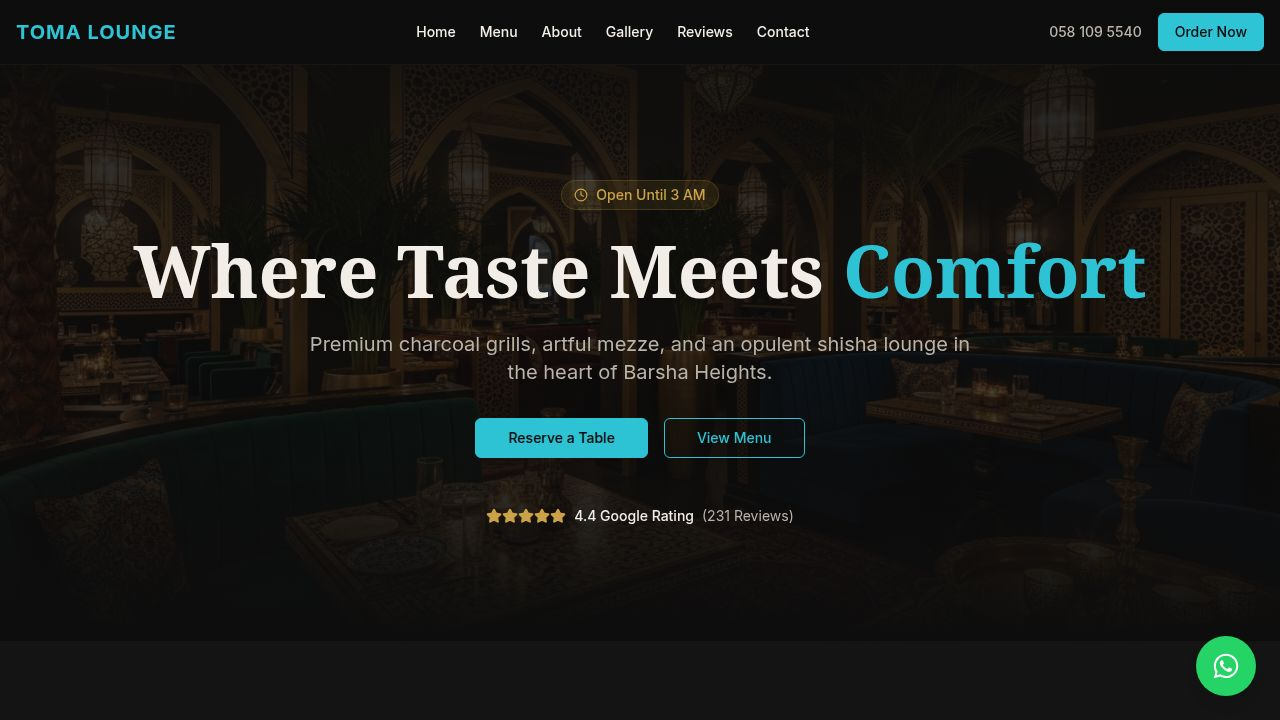
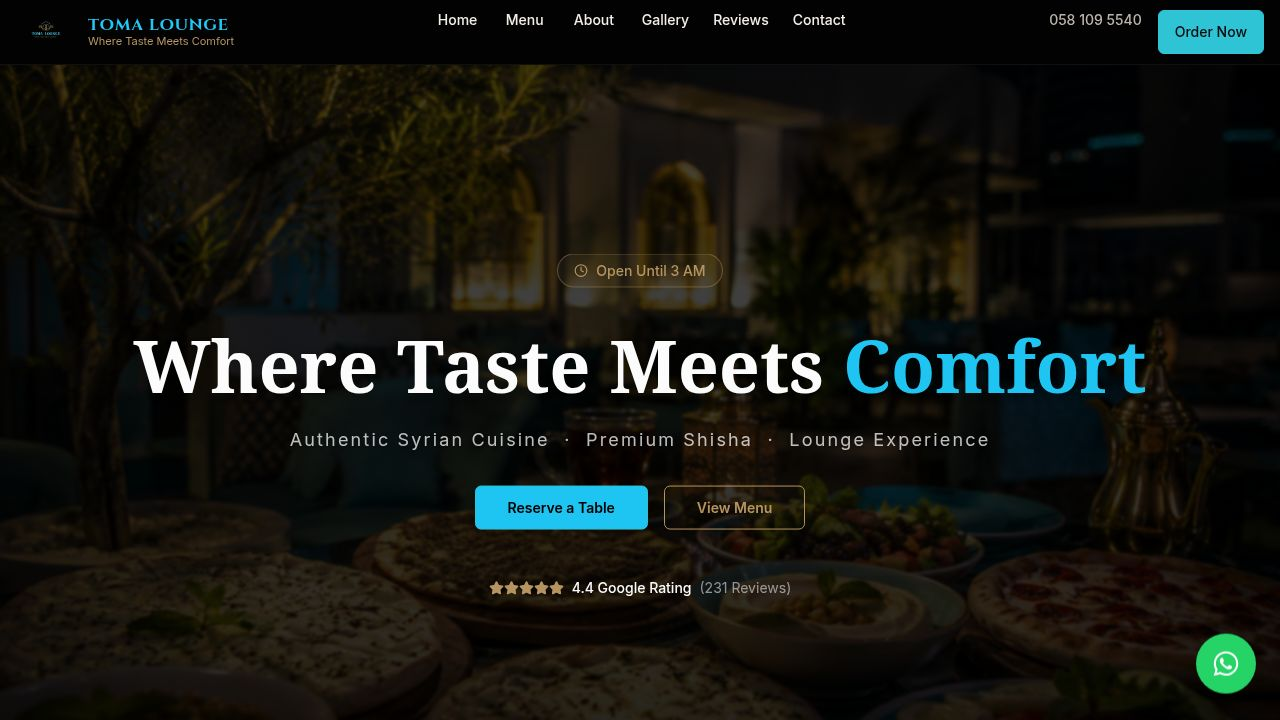
Make Vite configuration more flexible for different deployment environments
Update vite.config.ts to make PORT and BASE_PATH environment variables optional with fallback defaults, and conditionally load Replit-specific plugins.

Replit-Commit-Author: Agent
Replit-Commit-Session-Id: e3f2b6cb-ddf7-4e0a-a1b6-f0106b413816
Replit-Commit-Checkpoint-Type: full_checkpoint
Replit-Commit-Event-Id: 7954570c-5fef-47fc-9281-c6a9725e9d65
Replit-Commit-Screenshot-Url: https://storage.googleapis.com/screenshot-production-us-central1/33b98ebb-dc7e-4a67-95c1-7c174f2af137/e3f2b6cb-ddf7-4e0a-a1b6-f0106b413816/Ta9PFXU
Replit-Helium-Checkpoint-Created: true

diff --git a/artifacts/toma-lounge/vite.config.ts b/artifacts/toma-lounge/vite.config.ts
@@ -2,74 +2,63 @@ import { defineConfig } from "vite";
 import react from "@vitejs/plugin-react";
 import tailwindcss from "@tailwindcss/vite";
 import path from "path";
-import runtimeErrorOverlay from "@replit/vite-plugin-runtime-error-modal";
 
-const rawPort = process.env.PORT;
+const port = process.env.PORT ? Number(process.env.PORT) : 3000;
+const basePath = process.env.BASE_PATH ?? "/";
+const isReplit = !!process.env.REPL_ID;
+const isDev = process.env.NODE_ENV !== "production";
 
-if (!rawPort) {
-  throw new Error(
-    "PORT environment variable is required but was not provided.",
-  );
-}
-
-const port = Number(rawPort);
-
-if (Number.isNaN(port) || port <= 0) {
-  throw new Error(`Invalid PORT value: "${rawPort}"`);
-}
-
-const basePath = process.env.BASE_PATH;
-
-if (!basePath) {
-  throw new Error(
-    "BASE_PATH environment variable is required but was not provided.",
-  );
-}
-
-export default defineConfig({
-  base: basePath,
-  plugins: [
-    react(),
-    tailwindcss(),
-    runtimeErrorOverlay(),
-    ...(process.env.NODE_ENV !== "production" &&
-    process.env.REPL_ID !== undefined
+export default defineConfig(async () => {
+  const replitPlugins =
+    isReplit && isDev
       ? [
+          await import("@replit/vite-plugin-runtime-error-modal").then((m) =>
+            m.default()
+          ),
           await import("@replit/vite-plugin-cartographer").then((m) =>
             m.cartographer({
               root: path.resolve(import.meta.dirname, ".."),
-            }),
+            })
           ),
           await import("@replit/vite-plugin-dev-banner").then((m) =>
-            m.devBanner(),
+            m.devBanner()
           ),
         ]
-      : []),
-  ],
-  resolve: {
-    alias: {
-      "@": path.resolve(import.meta.dirname, "src"),
-      "@assets": path.resolve(import.meta.dirname, "..", "..", "attached_assets"),
+      : [];
+
+  return {
+    base: basePath,
+    plugins: [react(), tailwindcss(), ...replitPlugins],
+    resolve: {
+      alias: {
+        "@": path.resolve(import.meta.dirname, "src"),
+        "@assets": path.resolve(
+          import.meta.dirname,
+          "..",
+          "..",
+          "attached_assets"
+        ),
+      },
+      dedupe: ["react", "react-dom"],
     },
-    dedupe: ["react", "react-dom"],
-  },
-  root: path.resolve(import.meta.dirname),
-  build: {
-    outDir: path.resolve(import.meta.dirname, "dist/public"),
-    emptyOutDir: true,
-  },
-  server: {
-    port,
-    strictPort: true,
-    host: "0.0.0.0",
-    allowedHosts: true,
-    fs: {
-      strict: true,
+    root: path.resolve(import.meta.dirname),
+    build: {
+      outDir: path.resolve(import.meta.dirname, "dist/public"),
+      emptyOutDir: true,
     },
-  },
-  preview: {
-    port,
-    host: "0.0.0.0",
-    allowedHosts: true,
-  },
+    server: {
+      port,
+      strictPort: true,
+      host: "0.0.0.0",
+      allowedHosts: true,
+      fs: {
+        strict: true,
+      },
+    },
+    preview: {
+      port,
+      host: "0.0.0.0",
+      allowedHosts: true,
+    },
+  };
 });